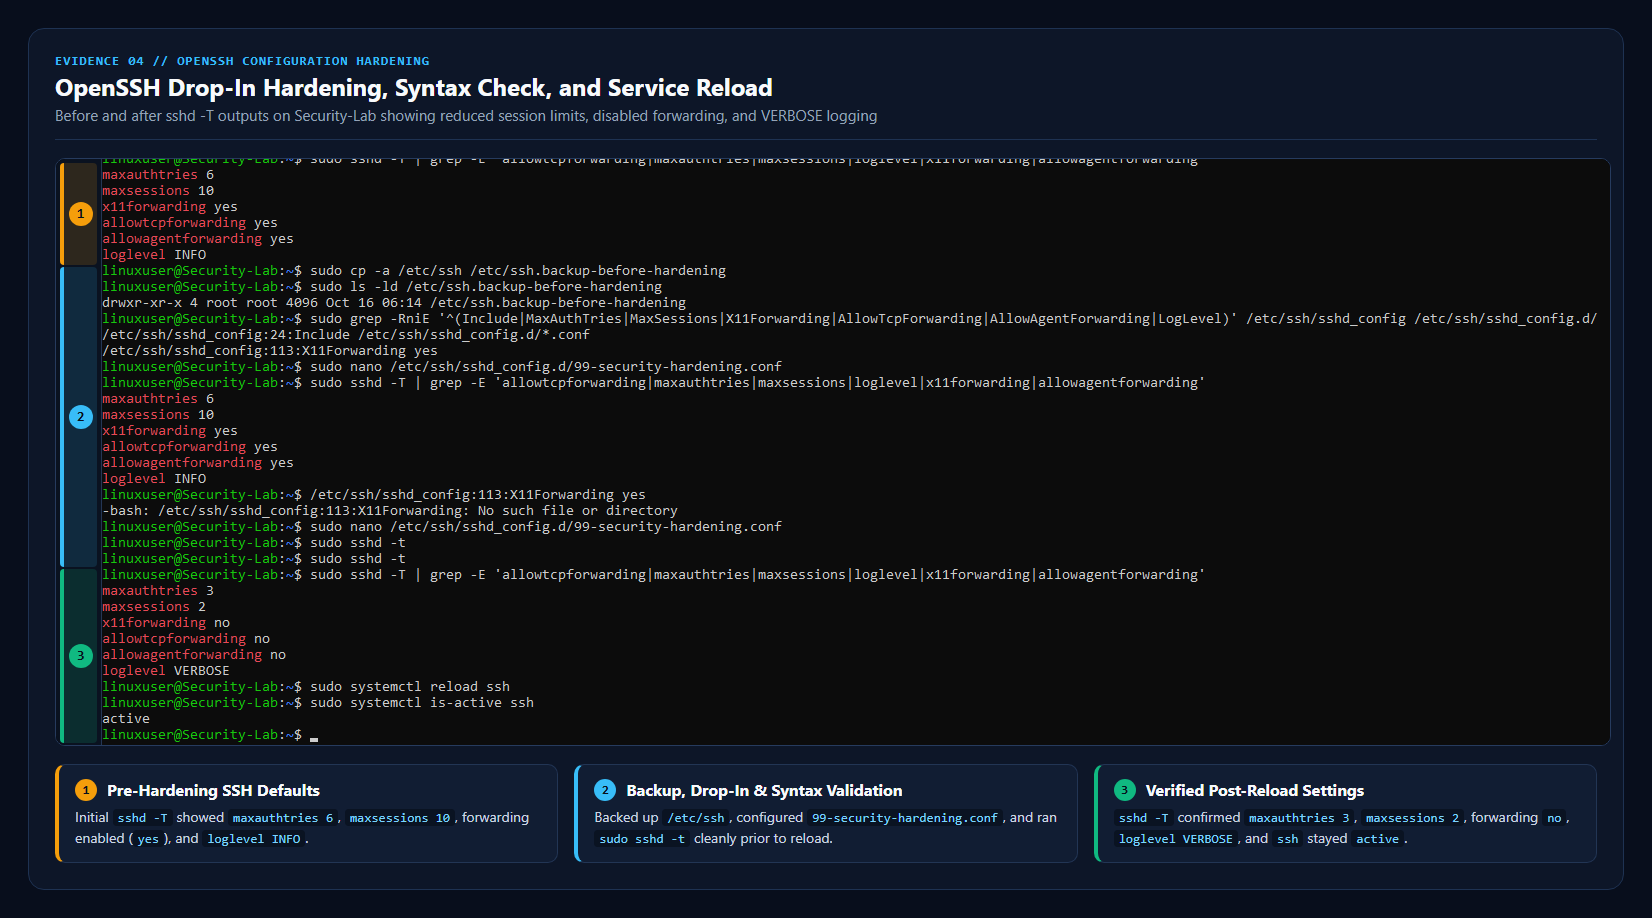
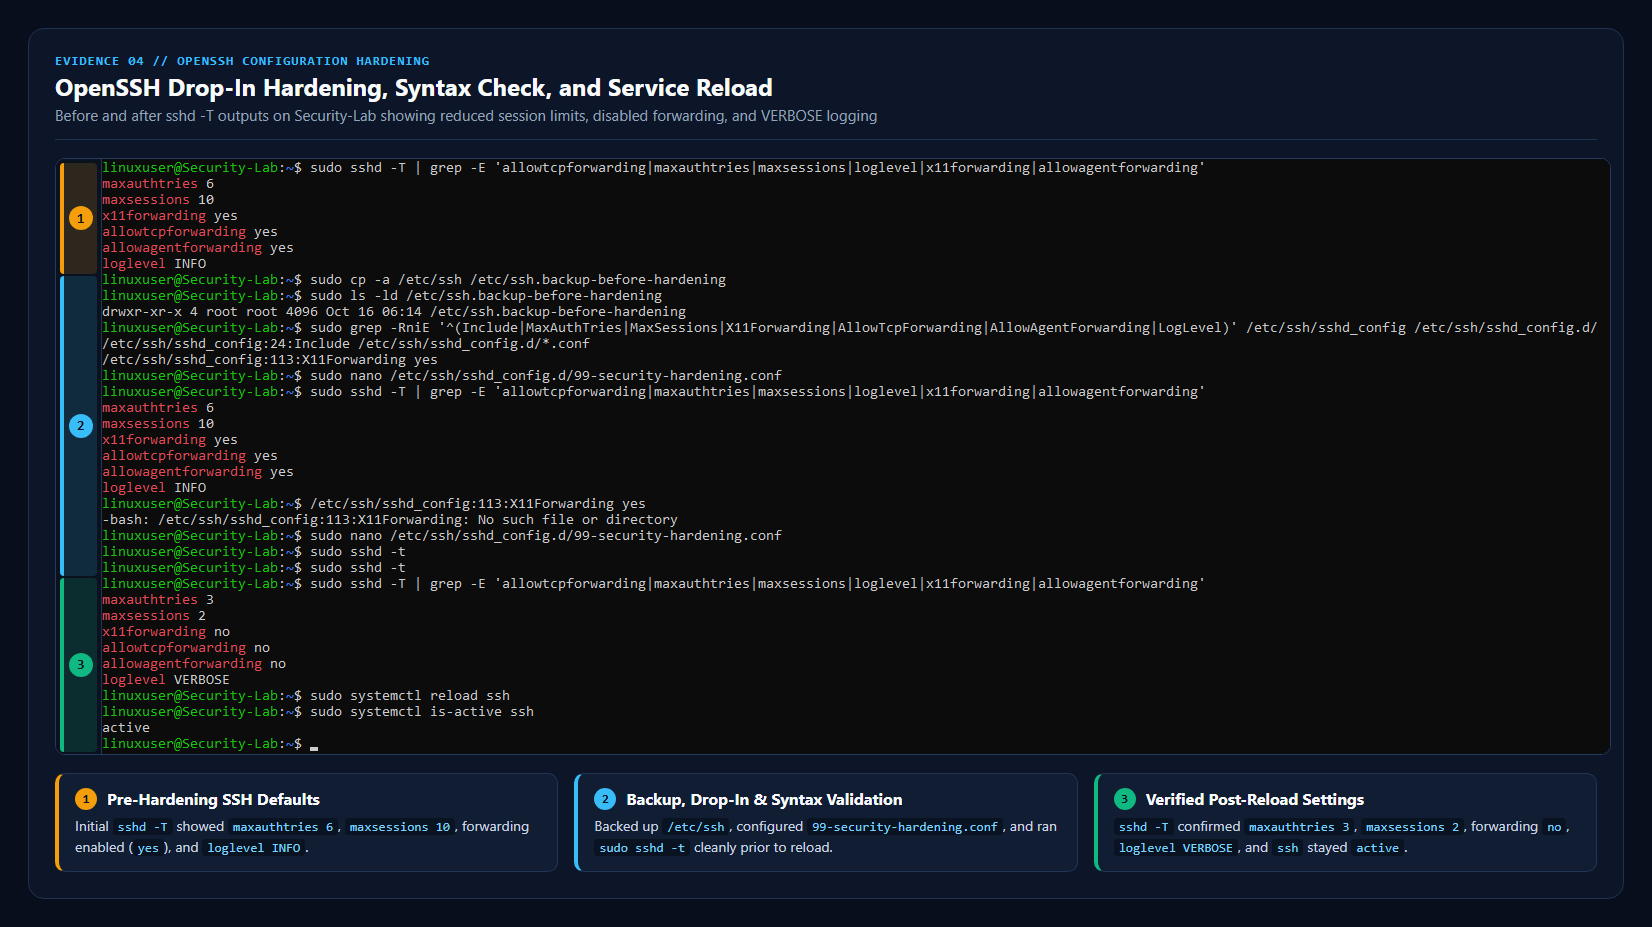
Refine evidence frames and add social preview image
Re-crop evidence 01 and 04 so the first command line is fully visible,
tighten the evidence 07 wording, and add a 1280x640 social preview image
with its SVG source.

Claude-Session: https://claude.ai/code/session_01FA68c3qwwGjNN5bjw2WqqV

diff --git a/evidence/README.md b/evidence/README.md
@@ -1,6 +1,6 @@
 # Evidence Index
 
-Sanitized command records plus seven cropped screenshots (six annotated) under [`../assets/evidence/`](../assets/evidence/). Public IPs, Tailscale (CGNAT) IPs, LAN IPs, and the Wazuh manager hostname are redacted in the images. Raw captures and the full Wazuh PDF export are not published.
+Sanitized command records plus seven cropped, annotated screenshots under [`../assets/evidence/`](../assets/evidence/). Public IPs, Tailscale (CGNAT) IPs, LAN IPs, and the Wazuh manager hostname are redacted in the images. Raw captures and the full Wazuh PDF export are not published.
 
 ## Annotated Screenshot Gallery (`assets/evidence/`)
 

diff --git a/README.md b/README.md
@@ -146,6 +146,7 @@ Cloud-Linux-Hardening-Lab/
 ├── .github/workflows/repo-checks.yml
 ├── assets/
 │   ├── project-cover.png / .svg
+│   ├── project-cover-social.png / .svg
 │   ├── architecture/
 │   │   └── lab-architecture.png / .svg
 │   ├── diagrams/
